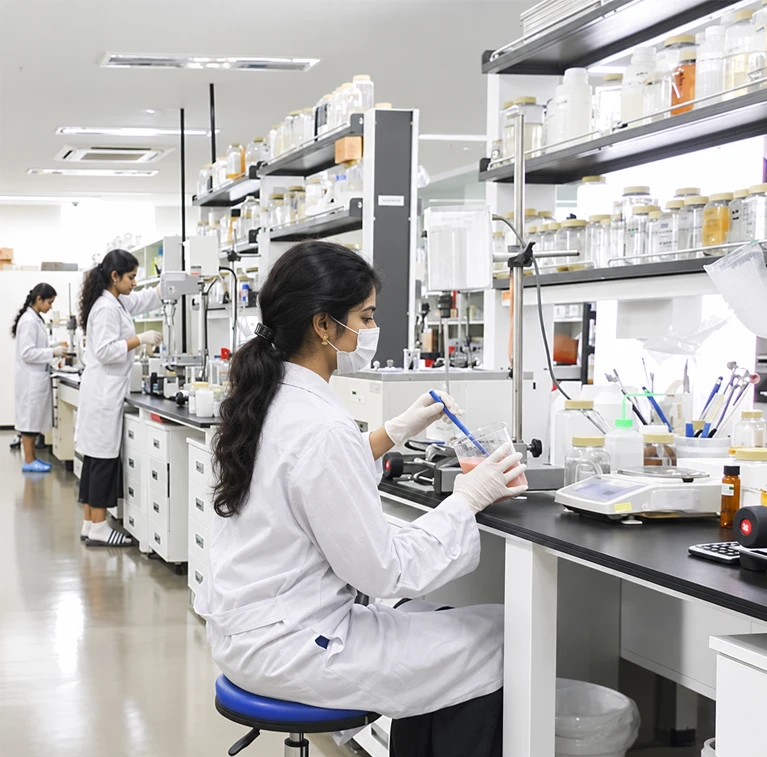
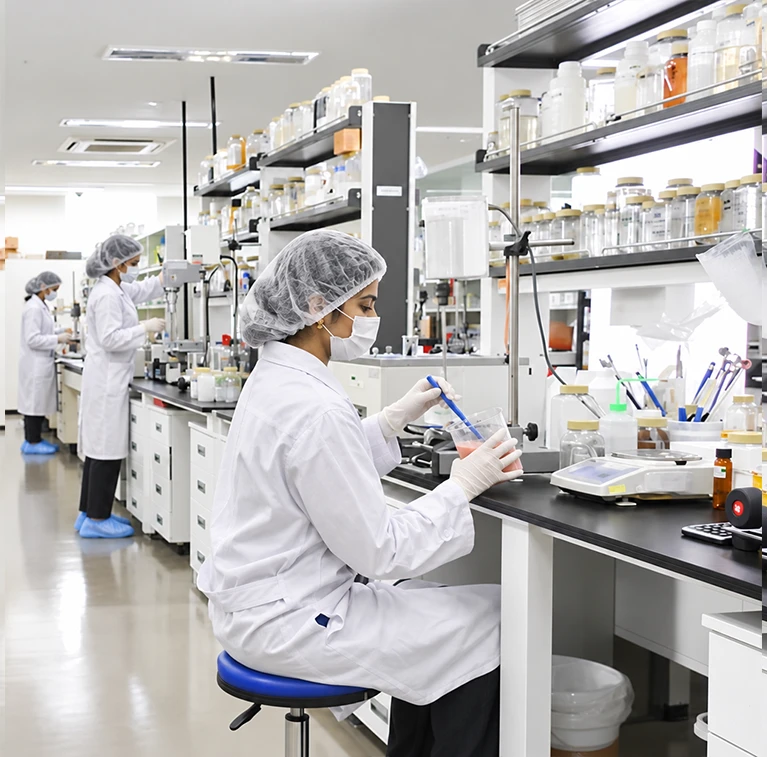
Changes

diff --git a/src/app/page.js b/src/app/page.js
@@ -8,6 +8,7 @@ import CommonSwiper from "./components/CommonSwiper";
 import PackageSwiper from "./components/PackageSwiper";
 import Capabilities from "./components/Capabilities";
 import GsapTitle from "./components/GsapTitle";
+import { useEffect, useRef } from "react";
 
 
 
@@ -22,11 +23,7 @@ const ProductSlides = [
     title: "Haircare",
     img: "/assets/img/hair_care_img.webp", 
    },
-  //  {
-  //   id:4,
-  //   title: "Sun Protection",
-  //   img: "/assets/img/sun_care_img.webp",
-  //  },
+ 
   
 ]
 
@@ -103,6 +100,38 @@ const capabilitiesData = [
 export default function Home() {
 
 
+  const sliderRef = useRef(null);
+
+  useEffect(() => {
+
+      let carousel;
+
+      const initSlider = async () => {
+
+          const { default: BootstrapCarousel } =
+              await import("bootstrap/js/dist/carousel");
+
+          if (!sliderRef.current) return;
+
+          carousel = new BootstrapCarousel(sliderRef.current, {
+              interval: 5000,
+              pause: "hover",
+              wrap: true,
+              touch: true
+          });
+
+          carousel.cycle();
+      };
+
+      initSlider();
+
+      return () => {
+          carousel?.dispose();
+      };
+
+  }, []);
+
+
 
   return (
 
@@ -117,7 +146,7 @@ export default function Home() {
 
            <div className="col-sm-12 col-lg-6 col-xl-6 col-xxl-5">
   
-                <div id="home_slider" className="carousel slide" data-aos="fade-up">
+                <div id="home_slider"  ref={sliderRef} className="carousel slide">
 
                   {/* Indicators */}
  
@@ -128,6 +157,7 @@ export default function Home() {
                     <button type="button" data-bs-target="#home_slider" data-bs-slide-to="1" aria-label="Slide 2"></button>
 
                     <button type="button" data-bs-target="#home_slider" data-bs-slide-to="2" aria-label="Slide 3"></button>
+
                   </div>
 
                   {/* Slides */}
